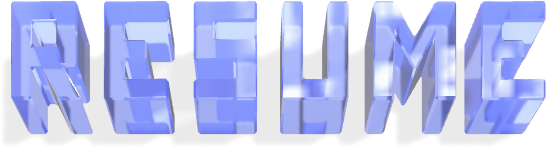
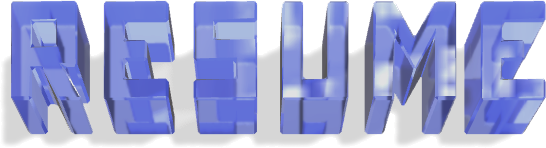
color adjusts for fall back images & adjusts resume dl button

diff --git a/app/components/Custom3D/DynamicText3D.vue b/app/components/Custom3D/DynamicText3D.vue
@@ -85,9 +85,6 @@ const fallbackStyle = computed(() => {
 		backgroundSize: props.fallbackScale,
 		backgroundPosition: 'center',
 		backgroundRepeat: 'no-repeat',
-		transform: 'translateY(30%)', // Adjust as needed to visually align with 3D version
-		border: 'none',
-		backgroundColor: 'transparent',
 	};
 });
 
@@ -221,13 +218,18 @@ function tick(root, LockManager, time) {
 	<ContainerCustom3D
 		ref="el"
 		class="dynamic-text-container"
-		:class="{ 'has-fallback': (!has3DCapability || !el?.is3DReady) && fallbackImage }"
-		:style="fallbackStyle"
 		:buildFn="build"
 		:updateFn="update"
 		:clean="destroy"
 		:tickFn="tick"
 	>
+		<!-- dedicated fallback image layer that won't affect container measurements -->
+		<div 
+			v-if="(!has3DCapability || !el?.is3DReady) && fallbackImage" 
+			class="fallback-image-layer" 
+			:style="fallbackStyle"
+		></div>
+
 		<slot />
 	</ContainerCustom3D>
 
@@ -237,6 +239,15 @@ function tick(root, LockManager, time) {
 	.dynamic-text-container {
 
 		height: 150px;
+		position: relative;
+
+		.fallback-image-layer {
+			position: absolute;
+			inset: 0;
+			pointer-events: none;
+			transform: translateY(30%);
+			z-index: 0;
+		}
 
 	}// .dynamic-text-container
 

diff --git a/app/pages/resume.vue b/app/pages/resume.vue
@@ -30,7 +30,6 @@ import DynamicText3D from '../components/Custom3D/DynamicText3D.vue';
 			<a href="/assets/Resume.Greg.Miller.pdf" target="_blank">
 				<div class="dl-pdf" align="center">
 					<div class="icon"></div>
-					PDF
 				</div>
 			</a>
 			<Resume />
@@ -395,8 +394,8 @@ import DynamicText3D from '../components/Custom3D/DynamicText3D.vue';
 
 		// position
 		position: absolute;
-		top: 0px;
-		right: 10px;
+		top: 10px;
+		left: 10px;
 
 		// text styles
 		font-size: 12px;

diff --git a/app/components/Container3D.vue b/app/components/Container3D.vue
@@ -128,7 +128,7 @@ onUnmounted(() => {
 
 	&.no-3d {
 		border-style: solid;
-		border-width: 10px 10px 32px 10px;
+		border-width: 0px 10px 32px 10px;
 		border-image: url(/img/2d_frame.png) 150 30 42 30 fill / 150px 30px 42px 30px;
 		background: transparent;
 	}
